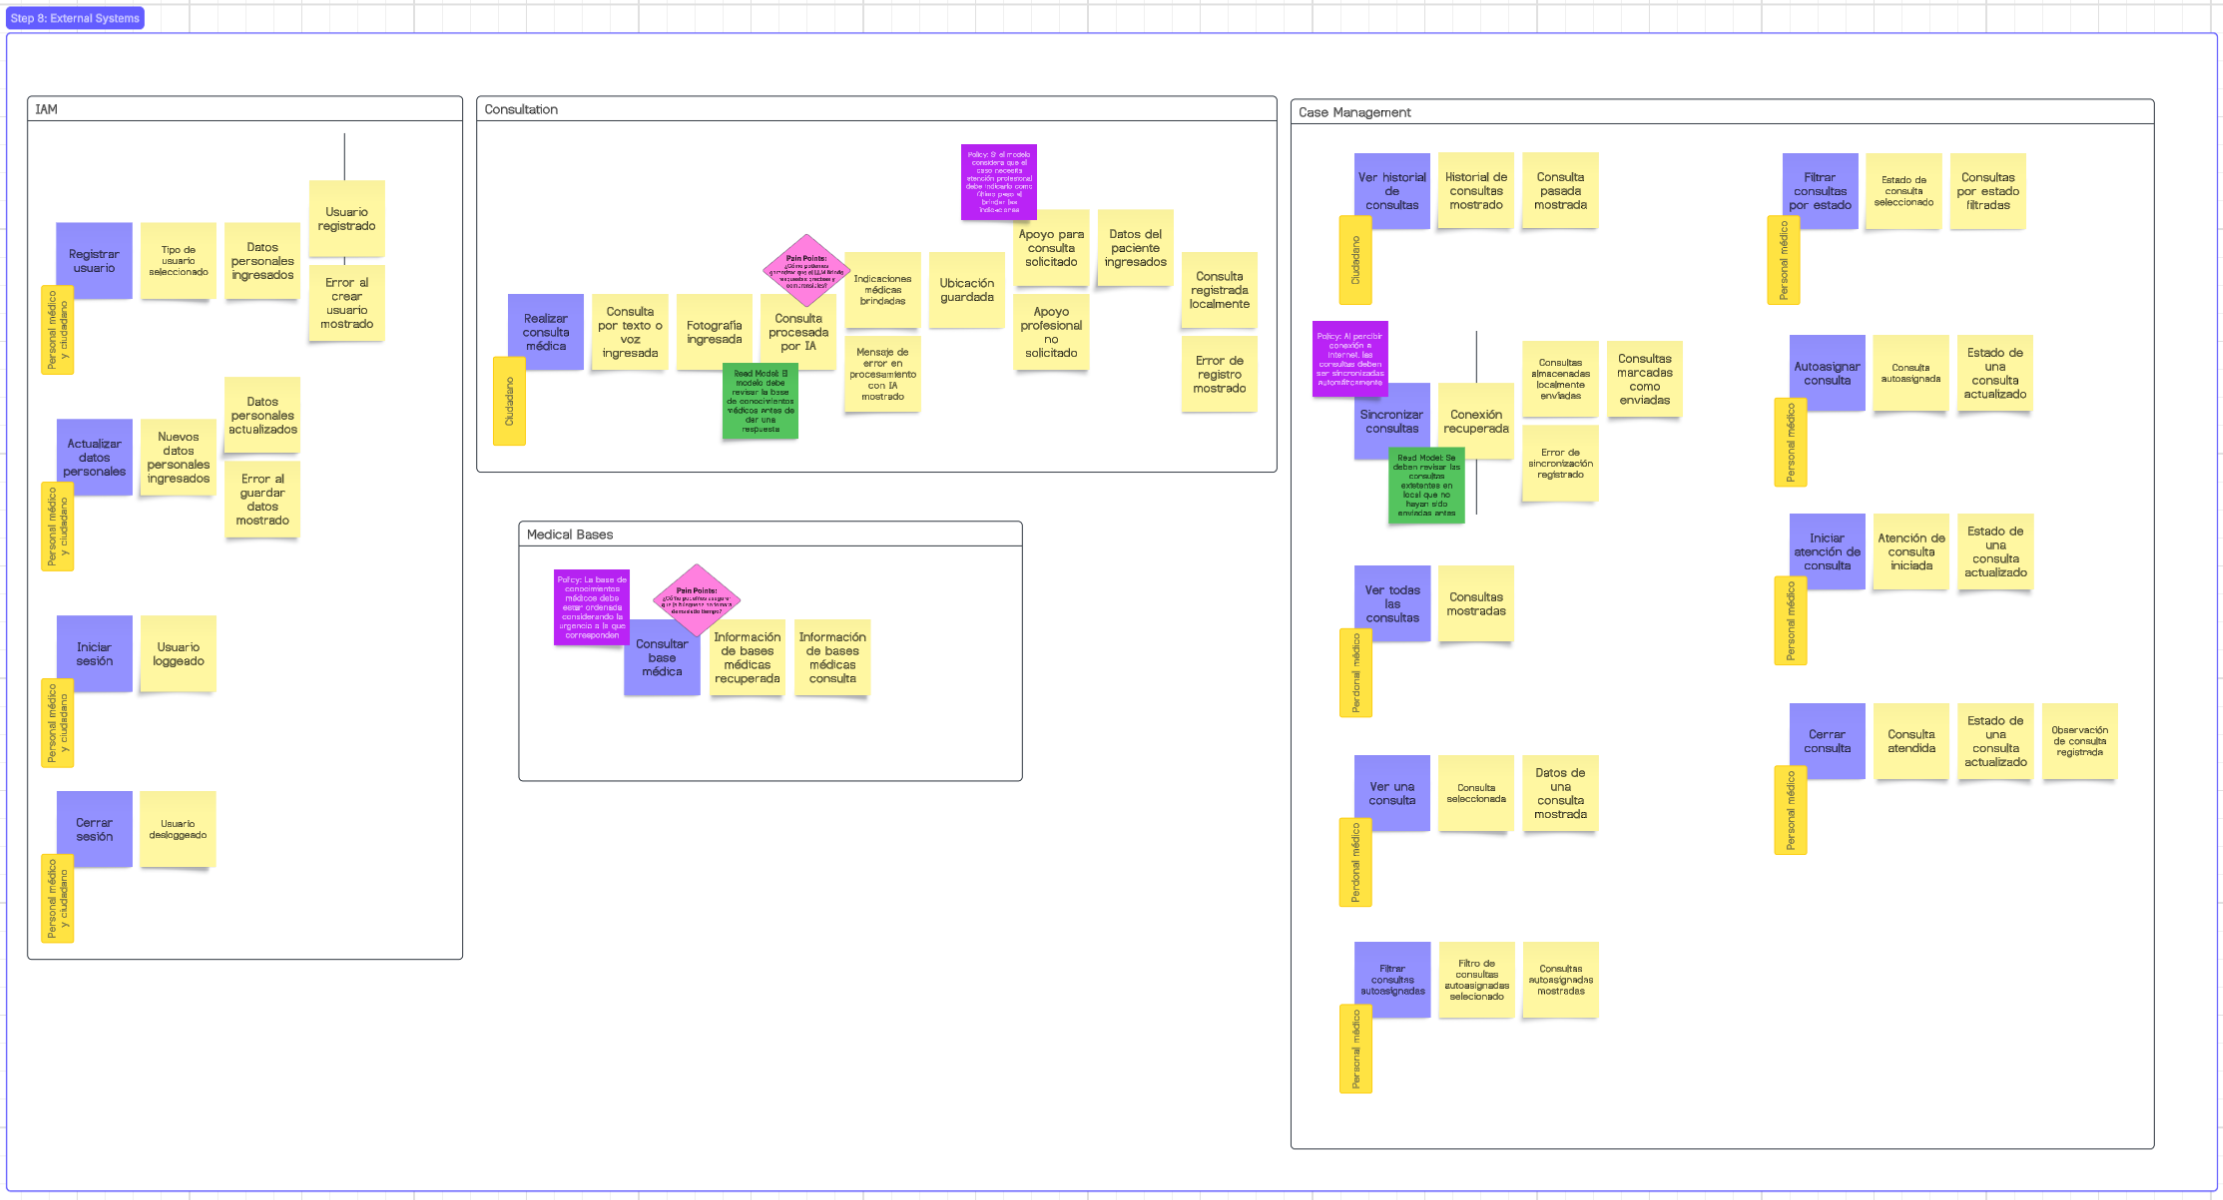
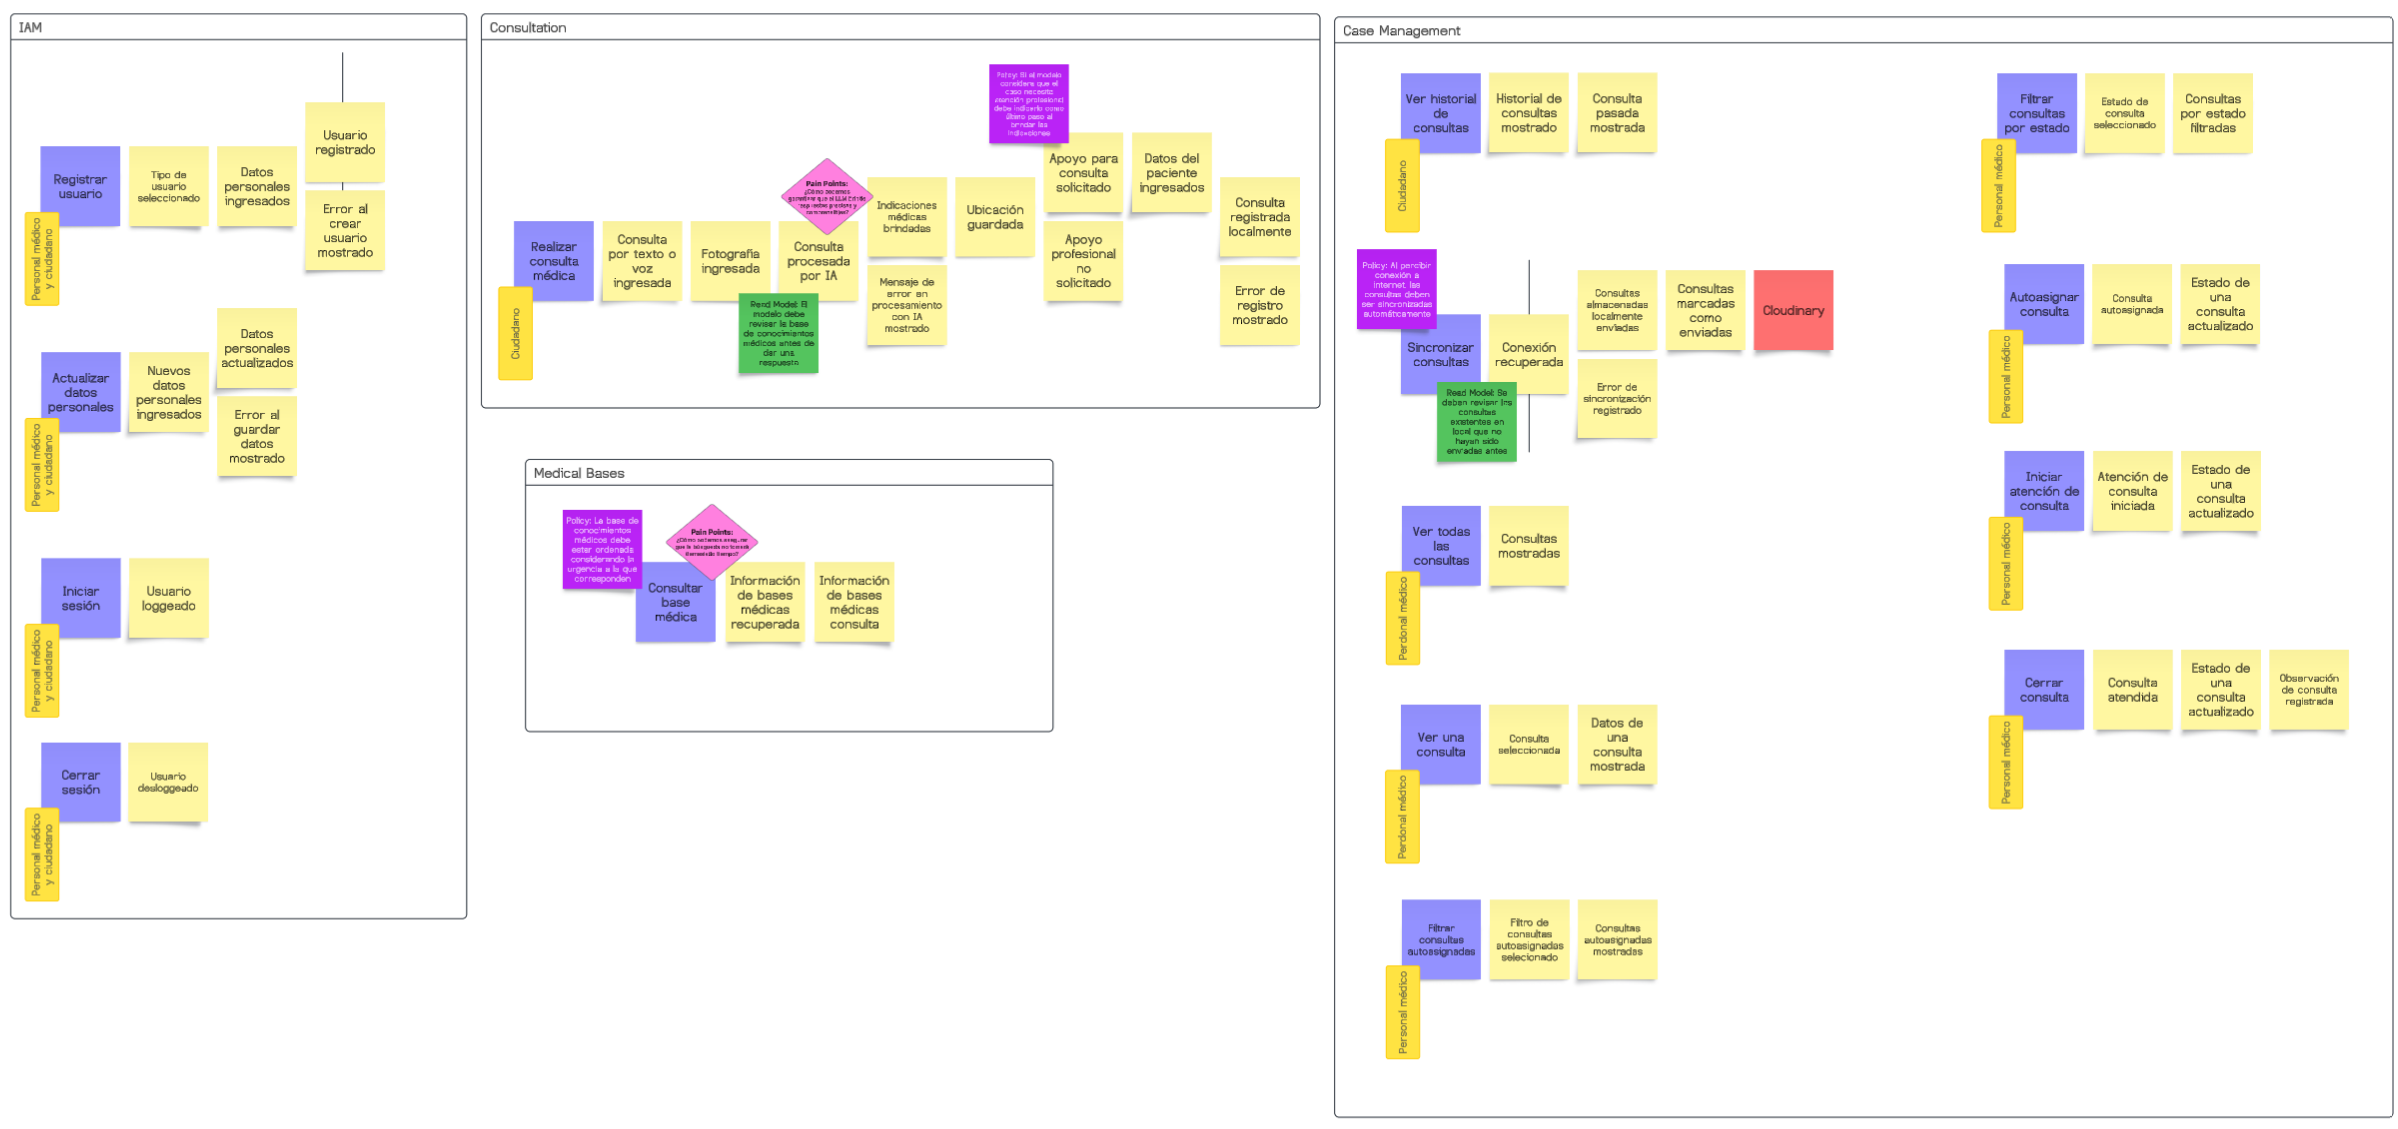
improve event storming

diff --git a/README.md b/README.md
@@ -2502,7 +2502,7 @@ __Step 8: External Systems__
 
 <img src="public/assets/images/chapter-4/step8.png" alt="event storming">
 
-Al realizar el paso ocho, notamos que no usaríamos sistemas externos puesto que, al tener como requisito que a aplicación logre funcionar sin conexión a internet, no sería conveniente depender de una conexión externa. Los aspectos como el modelo de IA empleado y la ubicación serán trabajados localmente dentro de la aplicación móvil.
+Al realizar el paso ocho, notamos que era necesario guardar las imágenes en la nube cuando se hiciera la sincronización para que estas sean correctamente almacenados y accesibles por parte tanto de los ciudadanos como del personal médico que atiende los casos.
 
 __Step 9: Aggregates__
 
